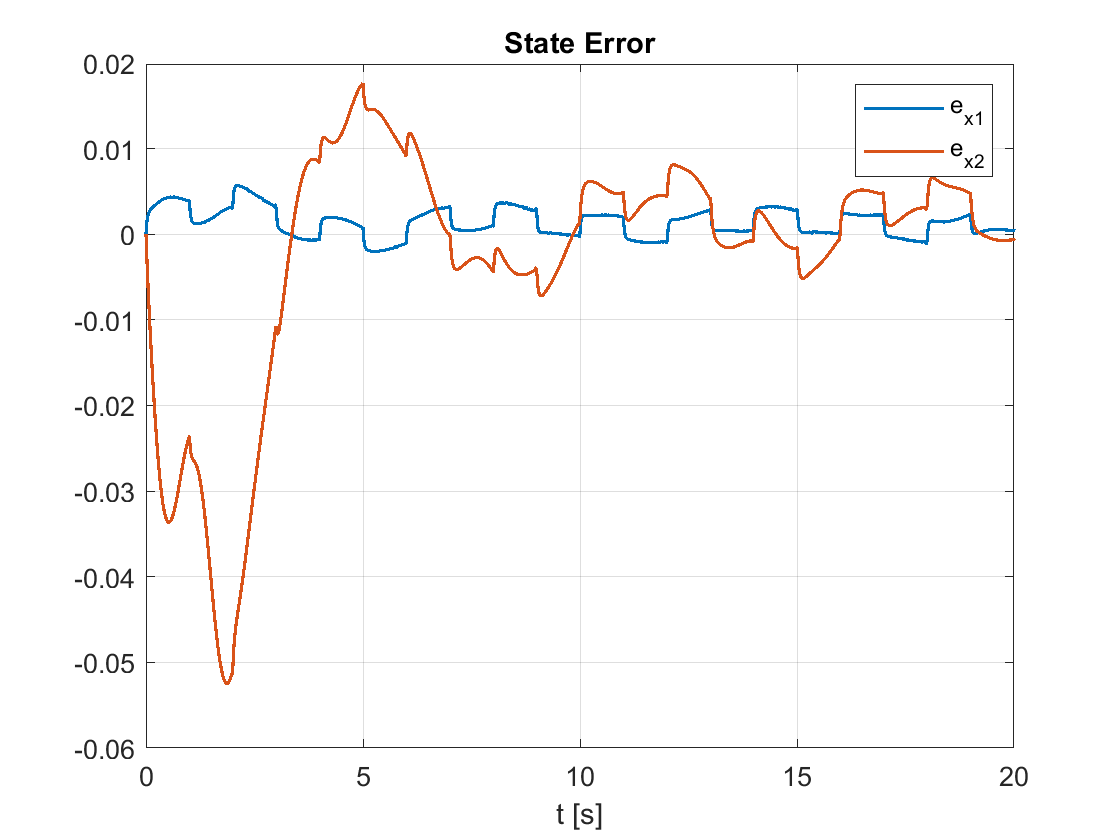
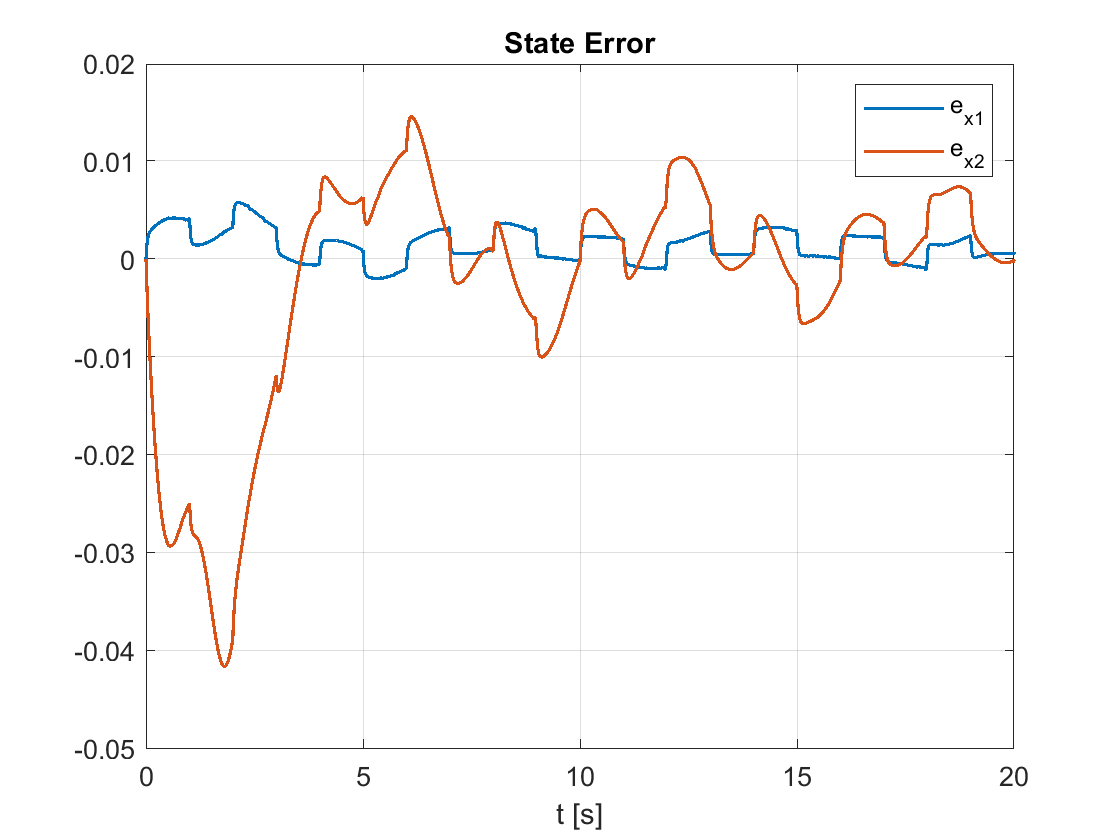
fix quest 1 b

diff --git a/Final Project/Part 1/quest_ab.m b/Final Project/Part 1/quest_ab.m
@@ -13,7 +13,7 @@ A = [-2.15 0.25; -0.75 -2];
 B = [0; 1.5];
 
 % Chosen Input 
-u = @(t) sin(t) + 0.5*cos(3*t) + 0.1*sin(5*t); % input function
+u = @(t) sin(t) + 0.5*cos(3*t); % input function
 
 % Initial conditions
 x0 = [0; 0];  
@@ -25,7 +25,7 @@ Thetam = diag([10, 15]);
 
 %%Quest B parameters 
 %Gb = [0.1, 0.3, 5, 20, 0.5, 7];
-Gb = [40, 30, 85, 25, 0.5, 7];
+Gb = [40, 30, 85, 32, 0.5, 12.5];
 Thetamb = diag([40, 25]);
 S = [0.001; 0.05; 0.01; 0.005; 0; -0.01];
 %generate omega pulse
@@ -199,4 +199,79 @@ xlabel('Omega Amplitude');
 ylabel('Mean Absolute Error');
 title('Effect of Disturbance Amplitude on Estimation Errors');
 legend({'States', 'Parameters'}, 'Location', 'northwest');
+grid on;
+
+%% 
+amplitudes = linspace(0, 1, 10); 
+n = length(amplitudes);
+
+% Initialize error storage
+e_x1 = zeros(1, n);
+e_x2 = zeros(1, n);
+e_a11 = zeros(1, n);
+e_a12 = zeros(1, n);
+e_a21 = zeros(1, n);
+e_a22 = zeros(1, n);
+e_b1  = zeros(1, n);
+e_b2  = zeros(1, n);
+
+for i = 1:n
+    amplitude = amplitudes(i);
+    omega = @(t) disturbance_pulse(t, T_pulse, amplitude); 
+
+    % Initial conditions
+    z0 = zeros(10, 1);
+    z0(1) = x0(1); 
+    z0(2) = x0(2);
+    z0(5) = -2;    
+    z0(10) = 2;
+
+    % Run simulation
+    [t, z] = ode45(@(t, z) mtopo_proj_estimator(t, z, u, A, B, G, Gb, Thetam, Thetamb, S, omega, questb), tvec, z0);
+
+    % Extract true and estimated states
+    x1 = z(:,1); x2 = z(:,2);
+    xhat1 = z(:,3); xhat2 = z(:,4);
+    e_x1(i) = mean(abs(x1 - xhat1));
+    e_x2(i) = mean(abs(x2 - xhat2));
+
+    % Extract estimated parameters
+    a11 = z(:,5); a12 = z(:,6);
+    a21 = z(:,7); a22 = z(:,8);
+    b1  = z(:,9); b2  = z(:,10);
+
+    % Compute mean absolute errors
+    e_a11(i) = mean(abs(a11 - A(1,1)));
+    e_a12(i) = mean(abs(a12 - A(1,2)));
+    e_a21(i) = mean(abs(a21 - A(2,1)));
+    e_a22(i) = mean(abs(a22 - A(2,2)));
+    e_b1(i)  = mean(abs(b1 - B(1)));
+    e_b2(i)  = mean(abs(b2 - B(2)));
+end
+
+% Plotting
+figure;
+
+% state estimation errors ---
+subplot(2,1,1);
+plot(amplitudes, e_x1, '-o', 'DisplayName', 'x_1 error', 'LineWidth', 1.2); hold on;
+plot(amplitudes, e_x2, '-o', 'DisplayName', 'x_2 error', 'LineWidth', 1.2);
+title('Estimation Error of States vs Disturbance Amplitude');
+xlabel('Omega Amplitude');
+ylabel('Mean Absolute Error');
+legend('Location', 'northwest');
+grid on;
+
+% parameter estimation errors ---
+subplot(2,1,2);
+plot(amplitudes, e_a11, '-sr', 'DisplayName', 'a_{11}', 'LineWidth', 1.2); hold on;
+plot(amplitudes, e_a12, '-sg', 'DisplayName', 'a_{12}', 'LineWidth', 1.2);
+plot(amplitudes, e_a21, '-sb', 'DisplayName', 'a_{21}', 'LineWidth', 1.2);
+plot(amplitudes, e_a22, '-sm', 'DisplayName', 'a_{22}', 'LineWidth', 1.2);
+plot(amplitudes, e_b1,  '-sb', 'DisplayName', 'b_1',  'LineWidth', 1.2);
+plot(amplitudes, e_b2,  '-sr', 'DisplayName', 'b_2',  'LineWidth', 1.2);
+title('Estimation Error of Parameters vs Disturbance Amplitude');
+xlabel('Omega Amplitude');
+ylabel('Mean Absolute Error');
+legend('Location', 'northwest');
 grid on;
